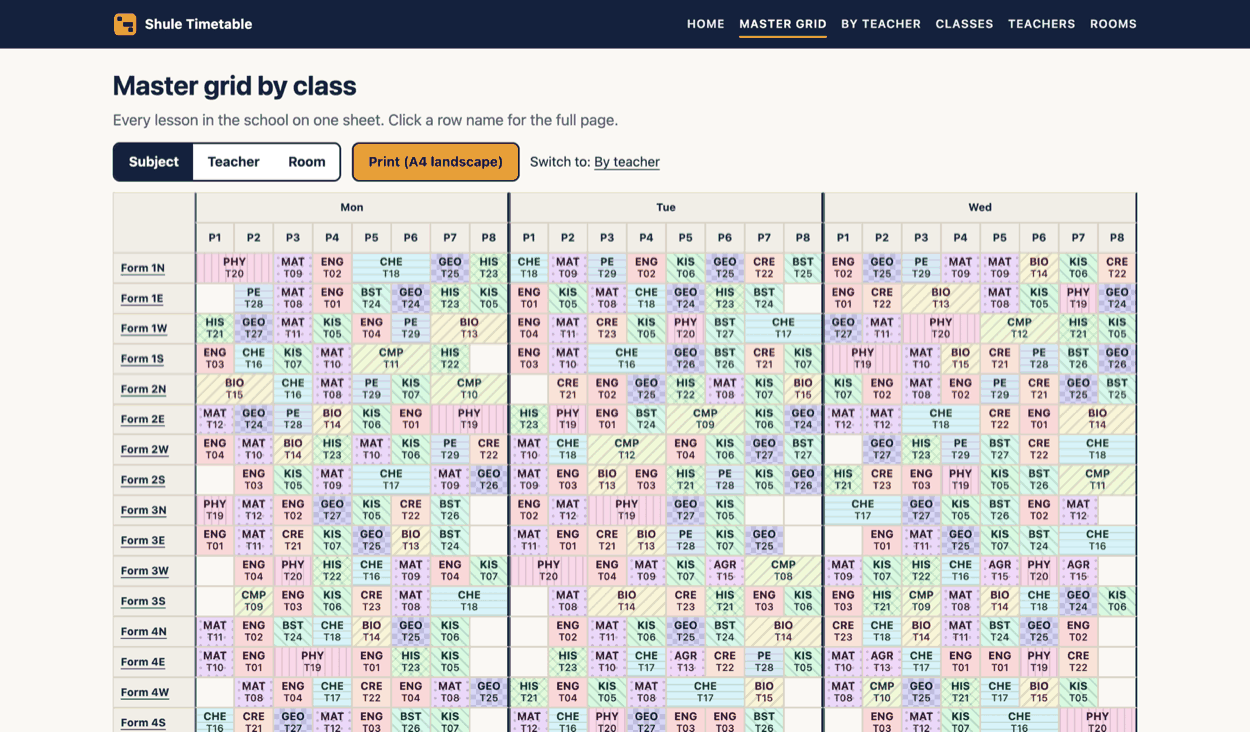
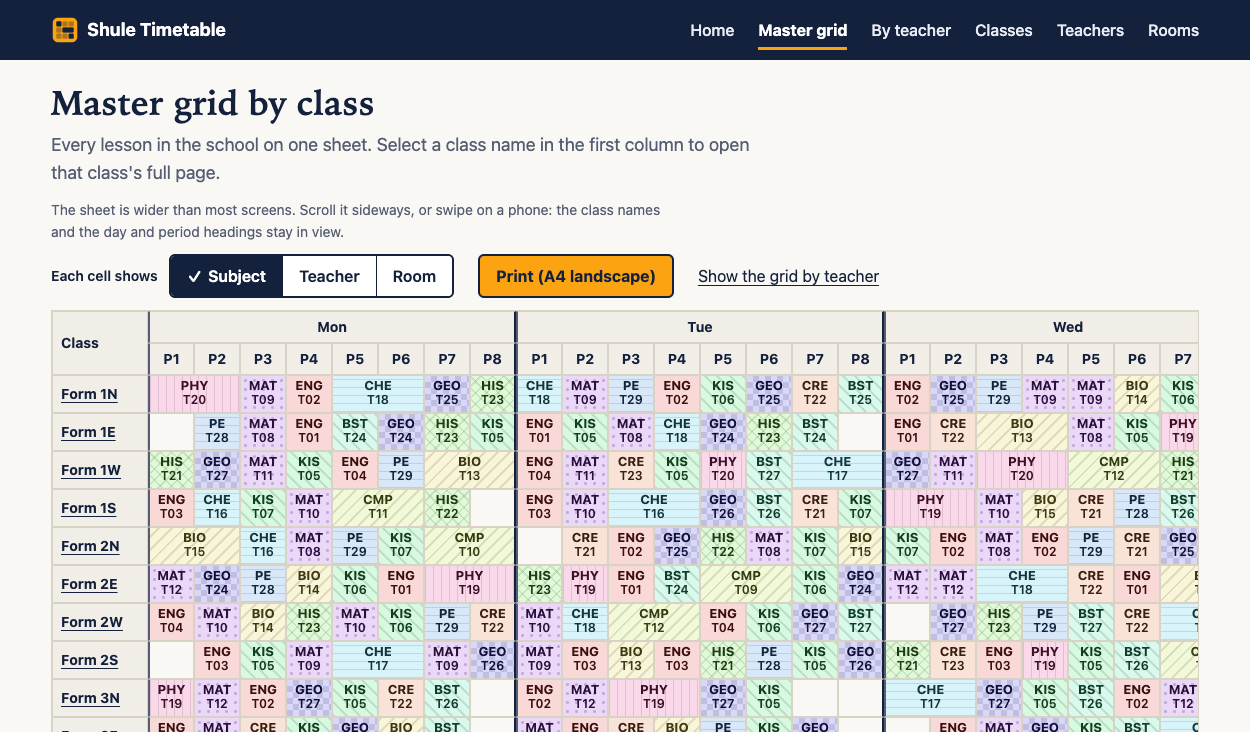
Refresh README screenshots and add design notes

diff --git a/README.md b/README.md
@@ -124,12 +124,12 @@ classes: [case study](docs/CASE-STUDY.md).
 ## Testing
 
 ```bash
-uv run pytest            # 144 tests, about 17 s
+uv run pytest            # 151 tests, about 17 s
 uv run ruff check . && uv run ruff format --check .
 uv run mypy
 ```
 
-All 144 pass locally and in CI (ruff and mypy strict as well). They cover:
+All 151 pass locally and in CI (ruff and mypy strict as well). They cover:
 
 - **Validator:** 23 tests, a hand-built violating timetable for each of the 12 hard rules.
 - **Pre-checks and input parsing:** 29 tests, including exact explanation text and file:line pointers.
@@ -139,7 +139,18 @@ All 144 pass locally and in CI (ruff and mypy strict as well). They cover:
   at optimality its objective equals the independent score.
 - **Explain and repair:** the unsat core is the expected rule set and every member is needed;
   repair moves the proven minimum and beats starting again.
-- **Site, CSV, ICS, CLI end to end, sample generators.** No test touches the network.
+- **Site, CSV, ICS, CLI end to end, sample generators.** Includes checks on page structure (one `h1`,
+  heading order, current-page marking, labelled controls) and that the landing page's figures match
+  the committed examples. No test touches the network.
+
+## Design and accessibility notes
+
+- One accent, hairline rules, a system serif for headings and tabular figures for numbers; no web fonts or scripts from elsewhere.
+- Every subject has a pattern as well as a colour, so a grayscale print still reads. Printing a class, teacher or room page, or the by-class master grid, gives one A4 landscape sheet.
+- The master grid keeps its first column and header rows in view while scrolling both ways, is a labelled region you can scroll with the keyboard, and has a radio group for what each cell shows.
+- Text is 14 px or more outside the dense grid cells (13 px and 12 px bold there). The nav marks the current page with an underline as well as weight.
+- "Where am I teaching?" announces its answer, and "Right now" states the Nairobi time it used. Dark mode follows the system setting.
+- Checked in headless Chromium at 320 to 1440 px, 200% zoom, dark mode and print media; not tried with a screen reader.
 
 ## Project layout
 
